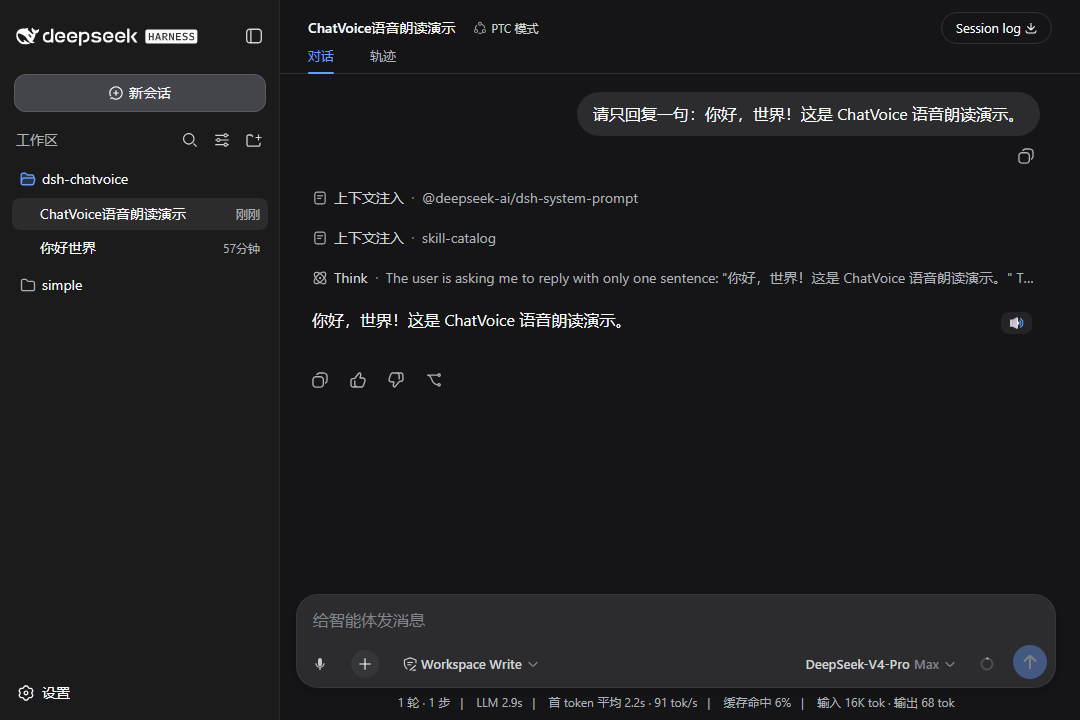
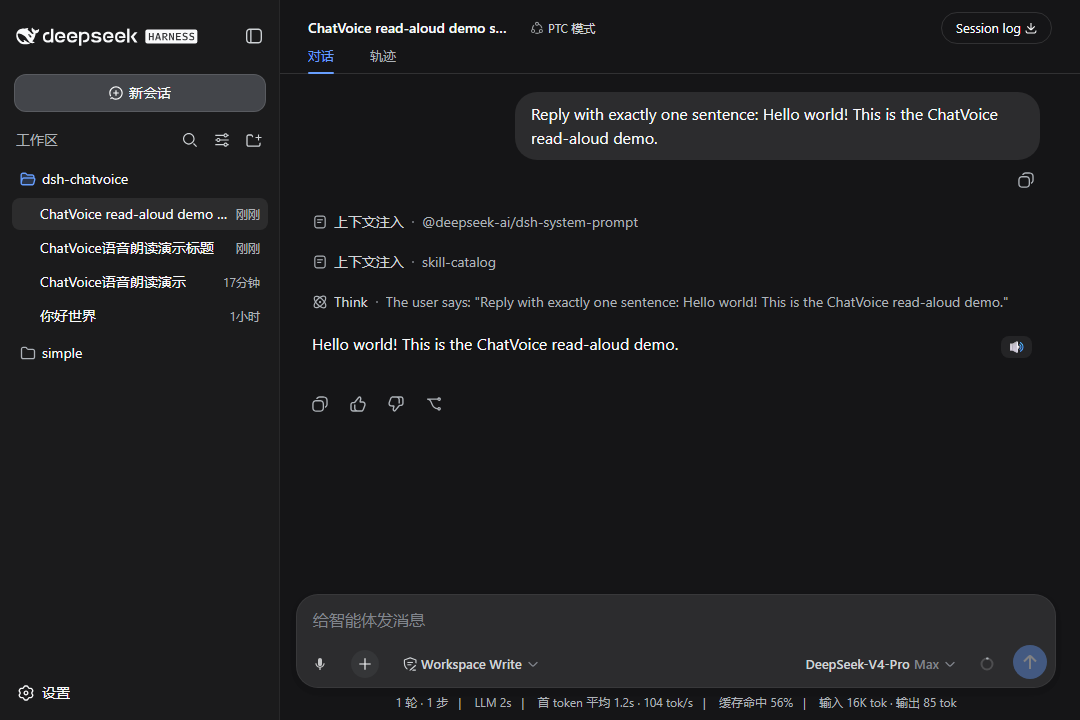
0.1.3: auto-read fix (warm-up + final-only) + neutral preview + bilingual GIFs

diff --git a/client/client.js b/client/client.js
@@ -51,9 +51,9 @@ window.__ModuleLoader__.load({ id: "dsh-chatvoice", factory: (require) => {
       ".chatvoice-speaking{color:#f85149!important;opacity:1!important;font-weight:700}",
       "@keyframes chatvoice-pulse{0%{box-shadow:0 0 0 0 rgba(248,81,73,.45)}70%{box-shadow:0 0 0 7px rgba(248,81,73,0)}100%{box-shadow:0 0 0 0 rgba(248,81,73,0)}}",
       ".chatvoice-toast{position:fixed;left:50%;bottom:110px;transform:translateX(-50%);z-index:2147483000;background:rgba(22,27,34,.95);color:#e6edf3;border:1px solid #30363d;border-radius:10px;padding:10px 16px;font-size:13px;line-height:1.5;max-width:min(560px,86vw);box-shadow:0 8px 24px rgba(0,0,0,.4);transition:opacity .25s}",
-      ".chatvoice-preview{position:fixed;z-index:2147483000;background:rgba(22,27,34,.96);color:#f0f6fc;border:1px solid #f85149;border-radius:10px;padding:10px 16px;font-size:13px;line-height:1.5;max-width:min(560px,86vw);box-shadow:0 8px 24px rgba(0,0,0,.4);transition:opacity .25s}",
-      ".chatvoice-preview::before{content:'';position:absolute;left:26px;bottom:-6px;width:10px;height:10px;background:rgba(22,27,34,.96);border-right:1px solid #f85149;border-bottom:1px solid #f85149;transform:rotate(45deg)}",
-      ".chatvoice-preview::after{content:'▌';color:#f85149;animation:chatvoice-blink 1s step-end infinite}",
+      ".chatvoice-preview{position:fixed;z-index:2147483000;background:rgba(22,27,34,.96);color:#f0f6fc;border:1px solid rgba(127,127,127,.45);border-radius:10px;padding:10px 16px;font-size:13px;line-height:1.5;max-width:min(560px,86vw);box-shadow:0 8px 24px rgba(0,0,0,.4);transition:opacity .25s}",
+      ".chatvoice-preview::before{content:'';position:absolute;left:26px;bottom:-6px;width:10px;height:10px;background:rgba(22,27,34,.96);border-right:1px solid rgba(127,127,127,.45);border-bottom:1px solid rgba(127,127,127,.45);transform:rotate(45deg)}",
+      ".chatvoice-preview::after{content:'▌';color:#58a6ff;animation:chatvoice-blink 1s step-end infinite}",
       ".chatvoice-listening{animation:chatvoice-listen-pulse 1.6s ease-in-out infinite}",
       "@keyframes chatvoice-listen-pulse{0%,100%{opacity:1}50%{opacity:.55}}",
       "@keyframes chatvoice-blink{50%{opacity:0}}",
@@ -198,6 +198,7 @@ window.__ModuleLoader__.load({ id: "dsh-chatvoice", factory: (require) => {
       return;
     }
     try { speechSynthesis.cancel(); } catch { /* ignore */ }
+    try { if (typeof speechSynthesis.resume === "function") speechSynthesis.resume(); } catch { /* ignore */ }
     const u = new SpeechSynthesisUtterance(text);
     const v = pickVoice();
     u.lang = (v && v.lang) || cfg.recognitionLang || "zh-CN";
@@ -218,6 +219,20 @@ window.__ModuleLoader__.load({ id: "dsh-chatvoice", factory: (require) => {
 
   function srSupported() {
     return !!(window.SpeechRecognition || window.webkitSpeechRecognition);
+  }
+
+  // 浏览器自动播放策略: 无用户手势时 speechSynthesis 可能被静音。
+  // 在首次用户交互时播放一个 0 音量的空 utterance「解锁」, 之后自动朗读才能出声。
+  let warmedUp = false;
+  function warmUpSpeech() {
+    if (warmedUp) return;
+    warmedUp = true;
+    try {
+      const u = new SpeechSynthesisUtterance(" ");
+      u.volume = 0;
+      u.rate = 2;
+      speechSynthesis.speak(u);
+    } catch { /* ignore */ }
   }
 
   /** React 受控 textarea 用原生 value setter + input 事件（free-vision E2E 验证过的坑）。 */
@@ -257,6 +272,7 @@ window.__ModuleLoader__.load({ id: "dsh-chatvoice", factory: (require) => {
     const SR = window.SpeechRecognition || window.webkitSpeechRecognition;
     const rec = new SR();
     const session = ++recognitionSession; // 本会话令牌: 旧会话的迟到回调一律作废
+    warmUpSpeech();
     rec.lang = cfg.recognitionLang || "zh-CN";
     rec.continuous = true;    // 持续聆听: 说完一句不自动停, 逐句累积
     rec.interimResults = true; // 实时中间结果
@@ -343,27 +359,32 @@ window.__ModuleLoader__.load({ id: "dsh-chatvoice", factory: (require) => {
     });
   }
 
-  /** 某条 assistant-step 是否为「最终结论」: 其后紧跟的 flow item 不是 assistant-step（或已是最后一条）。 */
-  function isConclusion(item) {
-    let next = item.nextElementSibling;
-    while (next && !(next.getAttribute && next.getAttribute("data-chat-flow-kind"))) next = next.nextElementSibling;
-    const kind = next && next.getAttribute ? next.getAttribute("data-chat-flow-kind") : null;
-    return kind !== "assistant-step";
+  /** 计算「最终结论」条目集合（文档序）:
+   *  结论 = 其后紧跟 turn-tail / user / 没有后续的 assistant-step;
+   *  或流式进行中, 整个消息流的最后一条是 assistant-step（正在写结论）。
+   *  中间步骤（后面紧跟 tool-call / context / 别的 assistant-step）不算结论。 */
+  function computeFinalConclusions() {
+    const all = [...document.querySelectorAll('[data-chat-flow-kind]')];
+    const set = new Set();
+    for (let i = 0; i < all.length; i++) {
+      const it = all[i];
+      if (it.getAttribute("data-chat-flow-kind") !== "assistant-step") continue;
+      const next = all[i + 1];
+      const nk = next ? next.getAttribute("data-chat-flow-kind") : null;
+      if (nk !== "assistant-step" && nk !== "tool-call" && nk !== "context") set.add(it);
+    }
+    const last = all[all.length - 1];
+    if (last && last.getAttribute("data-chat-flow-kind") === "assistant-step") set.add(last);
+    return set;
   }
 
-  /** 只在最终结论正文右上角放小喇叭: 思维链/中间步骤一个都不放。 */
+  /** 小喇叭: 所有带正文的助手消息都挂一个悬浮按钮（思维链+结论, 用户接受的现状）。 */
   function injectSpeakers() {
     if (!document.body) return;
     document.querySelectorAll('[data-chat-flow-kind="assistant-step"]').forEach((item) => {
       const mds = item.querySelectorAll("[class*=markdown]");
       if (!mds.length) return;
-      const existing = item.querySelector("[data-chatvoice-speak]");
-      if (!isConclusion(item)) {
-        // 不再是结论（后续又有新回复）: 摘掉按钮
-        if (existing) existing.remove();
-        return;
-      }
-      if (existing) return;
+      if (item.querySelector("[data-chatvoice-speak]")) return;
       const md = mds[mds.length - 1];
       const key = item.getAttribute("data-chat-flow-key") || item.getAttribute("data-chat-anchor-key") || "";
       const btn = document.createElement("button");
@@ -374,6 +395,7 @@ window.__ModuleLoader__.load({ id: "dsh-chatvoice", factory: (require) => {
       btn.addEventListener("click", (ev) => {
         ev.preventDefault();
         ev.stopPropagation();
+        warmUpSpeech();
         speak(extractText(md), key);
       });
       try { md.style.position = "relative"; } catch { /* ignore */ }
@@ -386,10 +408,11 @@ window.__ModuleLoader__.load({ id: "dsh-chatvoice", factory: (require) => {
   function autoSpeakScan() {
     if (!cfg.autoSpeak) { pendingAuto.clear(); return; }
     const now = Date.now();
+    const conclusions = computeFinalConclusions();
     document.querySelectorAll('[data-chat-flow-kind="assistant-step"]').forEach((item) => {
       const mds = item.querySelectorAll("[class*=markdown]");
       if (!mds.length) return;
-      if (!isConclusion(item)) { pendingAuto.delete(item.getAttribute("data-chat-flow-key") || item.getAttribute("data-chat-anchor-key") || ""); return; }
+      if (!conclusions.has(item)) { pendingAuto.delete(item.getAttribute("data-chat-flow-key") || item.getAttribute("data-chat-anchor-key") || ""); return; }
       const md = mds[mds.length - 1];
       const key = item.getAttribute("data-chat-flow-key") || item.getAttribute("data-chat-anchor-key") || "";
       if (!key || spokenKeys.has(key)) return;
@@ -533,6 +556,7 @@ window.__ModuleLoader__.load({ id: "dsh-chatvoice", factory: (require) => {
         speechSynthesis.onvoiceschanged = refreshVoices;
       }
     } catch { /* ignore */ }
+    try { document.addEventListener("pointerdown", warmUpSpeech, { once: true, capture: true }); } catch { /* ignore */ }
     loadConfig();
     scan();
     startObserver();

diff --git a/CHANGELOG.md b/CHANGELOG.md
@@ -1,5 +1,18 @@
 # Changelog
 
+## 0.1.3 (2026-08-16)
+
+- 自动朗读修复：speak 前 resume + 首次用户交互预热（0 音量空 utterance）解锁浏览器自动播放策略
+- 自动朗读只读最终结论（新 UI 的 step/tool-call 交替结构下跳过思维链与中间步骤）
+- 语音预览框配色对齐 dsh 风格：灰边框/箭头 + 蓝色光标（麦克风录制红点保留）
+- 小喇叭恢复全挂（所有带正文的助手消息，含思维链）
+- README 双语 GIF：docs/demo.gif（中文）/ docs/demo.en.gif（英文），保留朗读演示段
+- Auto-read fix: resume() + first-interaction warm-up unlock the browser autoplay policy
+- Auto-read speaks only the final conclusion (skips thinking chains in the new alternating flow)
+- Preview bubble recolored to dsh-neutral (gray border, blue caret; mic recording dot stays red)
+- Speaker buttons restored on every assistant message with a body
+- Bilingual demo GIFs: docs/demo.gif (zh) / docs/demo.en.gif (en), read-aloud segment kept
+
 ## 0.1.2 (2026-08-16)
 
 - 朗读小喇叭只挂在**最终结论**正文右上角（悬浮按钮），思维链/中间步骤不再显示喇叭

diff --git a/README.md b/README.md
@@ -6,7 +6,7 @@
 > Everything runs on the browser's native Web Speech API — no backend, no key, nothing to register.
 
 <p align="center">
-  <img src="docs/demo.gif" alt="ChatVoice demo: speak → live text → read aloud" width="760"/>
+  <img src="docs/demo.en.gif" alt="ChatVoice demo: speak → live text → read aloud" width="760"/>
 </p>
 
 <p align="center">
